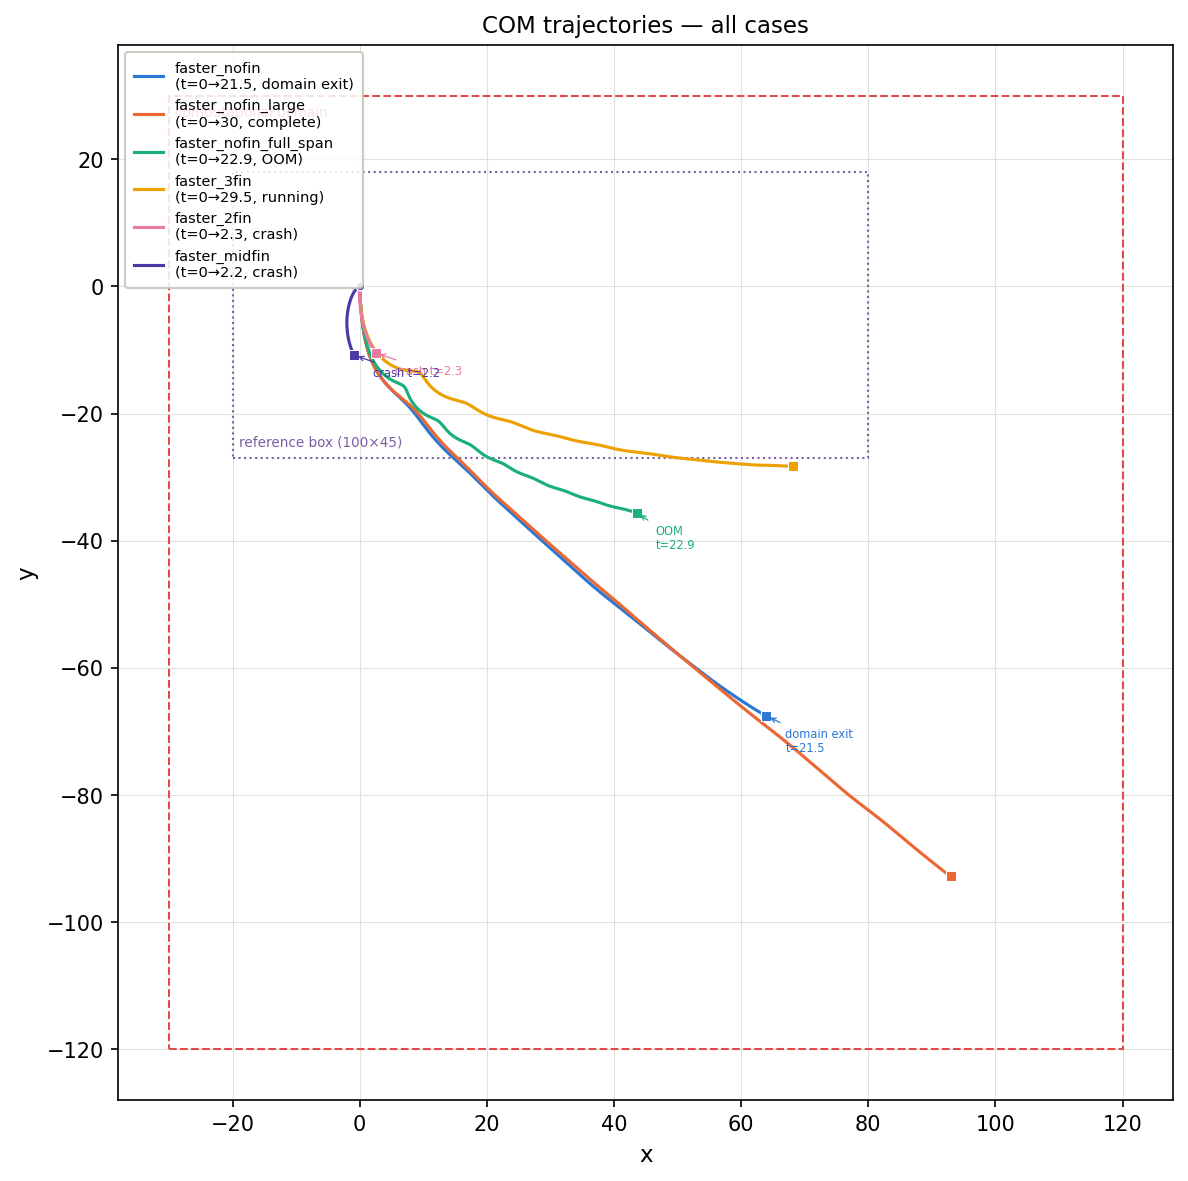
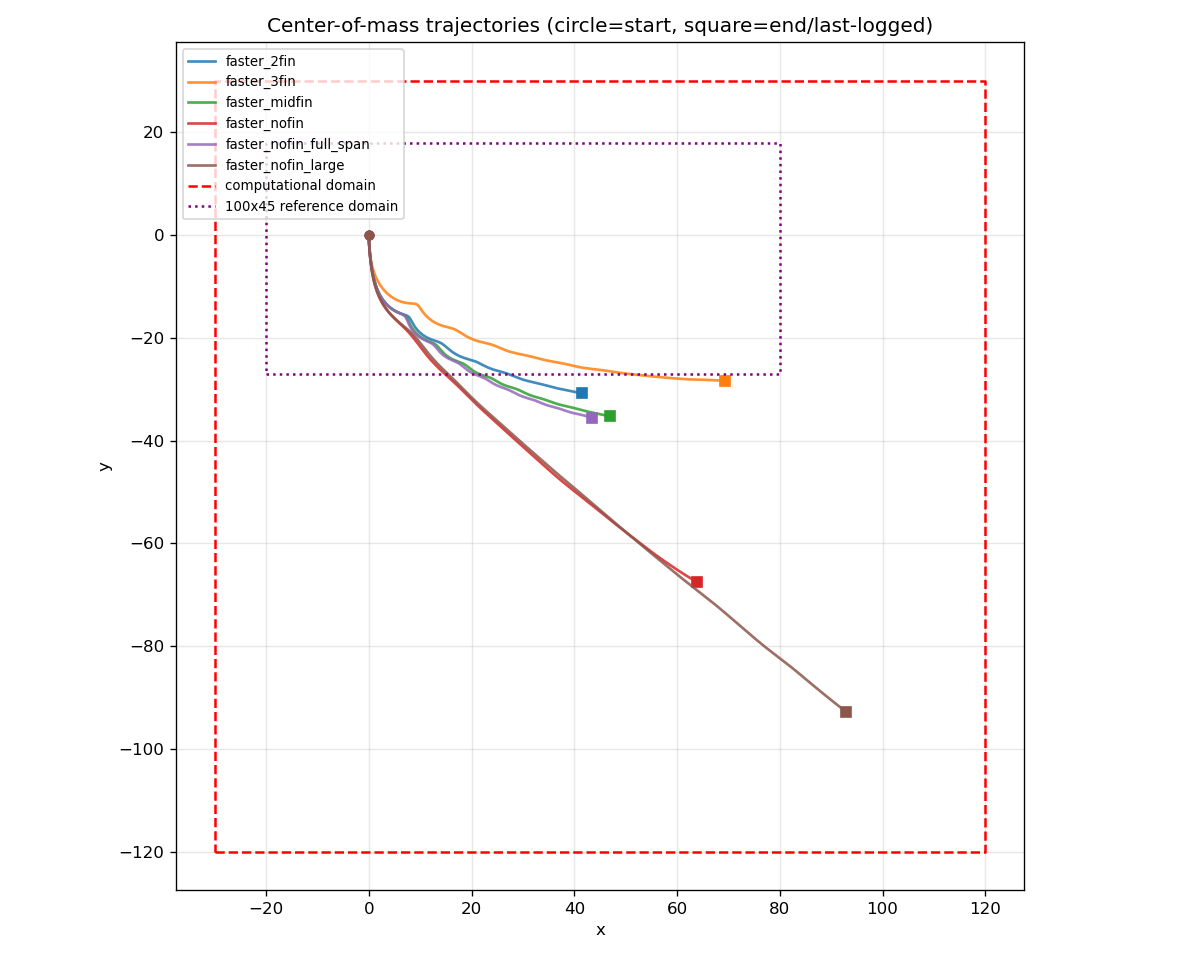
feat(cases): add reusable trajectory-plot script, refresh comparison plot
tools/plot_trajectories.py auto-discovers each case's latest run with
output and regenerates cases/trajectory_comparison.png, replacing the
one-off script that produced the original PNG. Refreshed table/plot
show faster_2fin and faster_midfin now running well past their old
crash point (t~2.2) after the regrid+mem fixes, and faster_3fin
finished (t=30).

diff --git a/tools/plot_trajectories.py b/tools/plot_trajectories.py
@@ -1,0 +1,137 @@
+#!/usr/bin/env python3
+"""Regenerate cases/trajectory_comparison.png from the latest run of each case.
+
+    module load anaconda3/2025.06
+    python3 tools/plot_trajectories.py
+
+For each case under cases/, finds the most recent runs/<case>_<stamp>/ folder
+that has produced output and plots its center_of_mass trajectory. Must run on
+a login node (reads from /archive) with IBAMR_SCRATCH_DIR set if runs/ isn't
+under PROJECT_DIR/runs (see README "Torch note").
+"""
+
+import argparse
+import os
+import re
+from pathlib import Path
+
+import matplotlib
+matplotlib.use("Agg")
+import matplotlib.pyplot as plt
+
+PROJECT_DIR = Path(__file__).resolve().parent.parent
+CASES_DIR = PROJECT_DIR / "cases"
+
+_scratch_env = os.environ.get("IBAMR_SCRATCH_DIR", "")
+SCRATCH_DIR = Path(_scratch_env).resolve() if _scratch_env else PROJECT_DIR
+RUNS_DIR = SCRATCH_DIR / "runs"
+
+# Computational domain / reference-domain boxes — kept in sync with the note
+# in cases/README.md. Always drawn: it's the frame every COM trajectory is
+# judged against (did the body exit the domain, how close to the boundary).
+DOMAIN_BOX = {"x": (-30, 120), "y": (-120, 30)}
+REFERENCE_BOX = {"x": (-20, 80), "y": (-27, 18)}
+
+TIME_RE = re.compile(r"^Simulation time is\s+([-\d.eE+]+)")
+COM_RE = re.compile(r"^center_of_mass:\s+([-\d.eE+]+)\s+([-\d.eE+]+)")
+
+
+def list_cases():
+    return sorted(d.name for d in CASES_DIR.iterdir()
+                  if d.is_dir() and (d / "input3d").exists())
+
+
+def latest_run_with_output(case):
+    """Most recent runs/<case>_<stamp>/ that has a non-empty .out file."""
+    pattern = re.compile(rf"^{re.escape(case)}_\d{{4}}-\d{{2}}-\d{{2}}_\d{{2}}-\d{{2}}-\d{{2}}$")
+    if not RUNS_DIR.is_dir():
+        return None
+    candidates = sorted(
+        (d for d in RUNS_DIR.iterdir() if d.is_dir() and pattern.match(d.name)),
+        key=lambda d: d.name, reverse=True,
+    )
+    for run_dir in candidates:
+        for out_file in sorted(run_dir.glob("ibamr-rotating-cylinder-*.out")):
+            if out_file.stat().st_size > 0:
+                return out_file
+    return None
+
+
+def extract_trajectory(path, stride=20):
+    """Sample every `stride`-th (t, x, y) COM point to keep plotting fast."""
+    t_cur = None
+    ts, xs, ys = [], [], []
+    i = 0
+    with open(path, "r", errors="ignore") as f:
+        for line in f:
+            m = TIME_RE.match(line)
+            if m:
+                t_cur = float(m.group(1))
+                continue
+            m = COM_RE.match(line)
+            if m and t_cur is not None:
+                i += 1
+                if i % stride == 0:
+                    ts.append(t_cur)
+                    xs.append(float(m.group(1)))
+                    ys.append(float(m.group(2)))
+                t_cur = None
+    return ts, xs, ys
+
+
+def main():
+    p = argparse.ArgumentParser(description=__doc__,
+                                formatter_class=argparse.RawDescriptionHelpFormatter)
+    p.add_argument("--out", default=str(CASES_DIR / "trajectory_comparison.png"),
+                   help="output PNG path (default: cases/trajectory_comparison.png)")
+    p.add_argument("--stride", type=int, default=20,
+                   help="plot every Nth logged COM point (default: 20)")
+    args = p.parse_args()
+
+    cases = list_cases()
+    data = {}
+    for case in cases:
+        out_file = latest_run_with_output(case)
+        if out_file is None:
+            print(f"{case}: no run output found, skipping")
+            continue
+        ts, xs, ys = extract_trajectory(out_file, stride=args.stride)
+        if not ts:
+            print(f"{case}: {out_file} has no COM data yet, skipping")
+            continue
+        data[case] = (ts, xs, ys)
+        print(f"{case}: {out_file.parent.name} — {len(ts)} points, "
+              f"t_end={ts[-1]:.4g}, final=({xs[-1]:.4g},{ys[-1]:.4g})")
+
+    fig, ax = plt.subplots(figsize=(10, 8))
+    cmap = plt.get_cmap("tab10")
+    for i, (case, (ts, xs, ys)) in enumerate(data.items()):
+        color = cmap(i % 10)
+        ax.plot(xs, ys, "-", color=color, label=case, linewidth=1.6, alpha=0.85)
+        ax.plot(xs[0], ys[0], "o", color=color, markersize=5)
+        ax.plot(xs[-1], ys[-1], "s", color=color, markersize=6)
+
+    dx, dy = DOMAIN_BOX["x"], DOMAIN_BOX["y"]
+    ax.plot([dx[0], dx[1], dx[1], dx[0], dx[0]],
+            [dy[0], dy[0], dy[1], dy[1], dy[0]],
+            "r--", linewidth=1.5, label="computational domain")
+
+    rx, ry = REFERENCE_BOX["x"], REFERENCE_BOX["y"]
+    ax.plot([rx[0], rx[1], rx[1], rx[0], rx[0]],
+            [ry[0], ry[0], ry[1], ry[1], ry[0]],
+            ":", color="purple", linewidth=1.5, label="100x45 reference domain")
+
+    ax.set_xlabel("x")
+    ax.set_ylabel("y")
+    ax.set_title("Center-of-mass trajectories (circle=start, square=end/last-logged)")
+    ax.legend(loc="upper left", fontsize=8)
+    ax.set_aspect("equal", adjustable="box")
+    ax.grid(alpha=0.3)
+
+    fig.tight_layout()
+    fig.savefig(args.out, dpi=120)
+    print(f"\nSaved {args.out}")
+
+
+if __name__ == "__main__":
+    main()

diff --git a/cases/README.md b/cases/README.md
@@ -48,10 +48,10 @@ Purple dotted box = 100 × 45 reference domain (x ∈ [−20, 80], y ∈ [−27,
 |------|--------|-------|-----------------|
 | `faster_nofin` | domain exit | 21.5 | (63.9, −67.5) |
 | `faster_nofin_large` | complete | 30 | (92.9, −92.8) |
-| `faster_nofin_full_span` | OOM | 22.9 | (43.5, −35.6) |
-| `faster_3fin` | running | ~29.5 | (68.1, −28.3) |
-| `faster_2fin` | crash | 2.3 | (2.5, −10.4) |
-| `faster_midfin` | crash | 2.2 | (−0.9, −10.8) |
+| `faster_nofin_full_span` | OOM, resubmitted with fixed mem budget (job 15150516, pending) | 22.9 | (43.5, −35.6) |
+| `faster_3fin` | complete | 30 | (69.3, −28.4) |
+| `faster_2fin` | running (fixed regrid+mem, no longer crashing) | ~19.7 | (41.4, −30.8) |
+| `faster_midfin` | running (fixed regrid+mem, no longer crashing) | ~24.0 | (46.9, −35.3) |
 
 ## Existing cases
 
